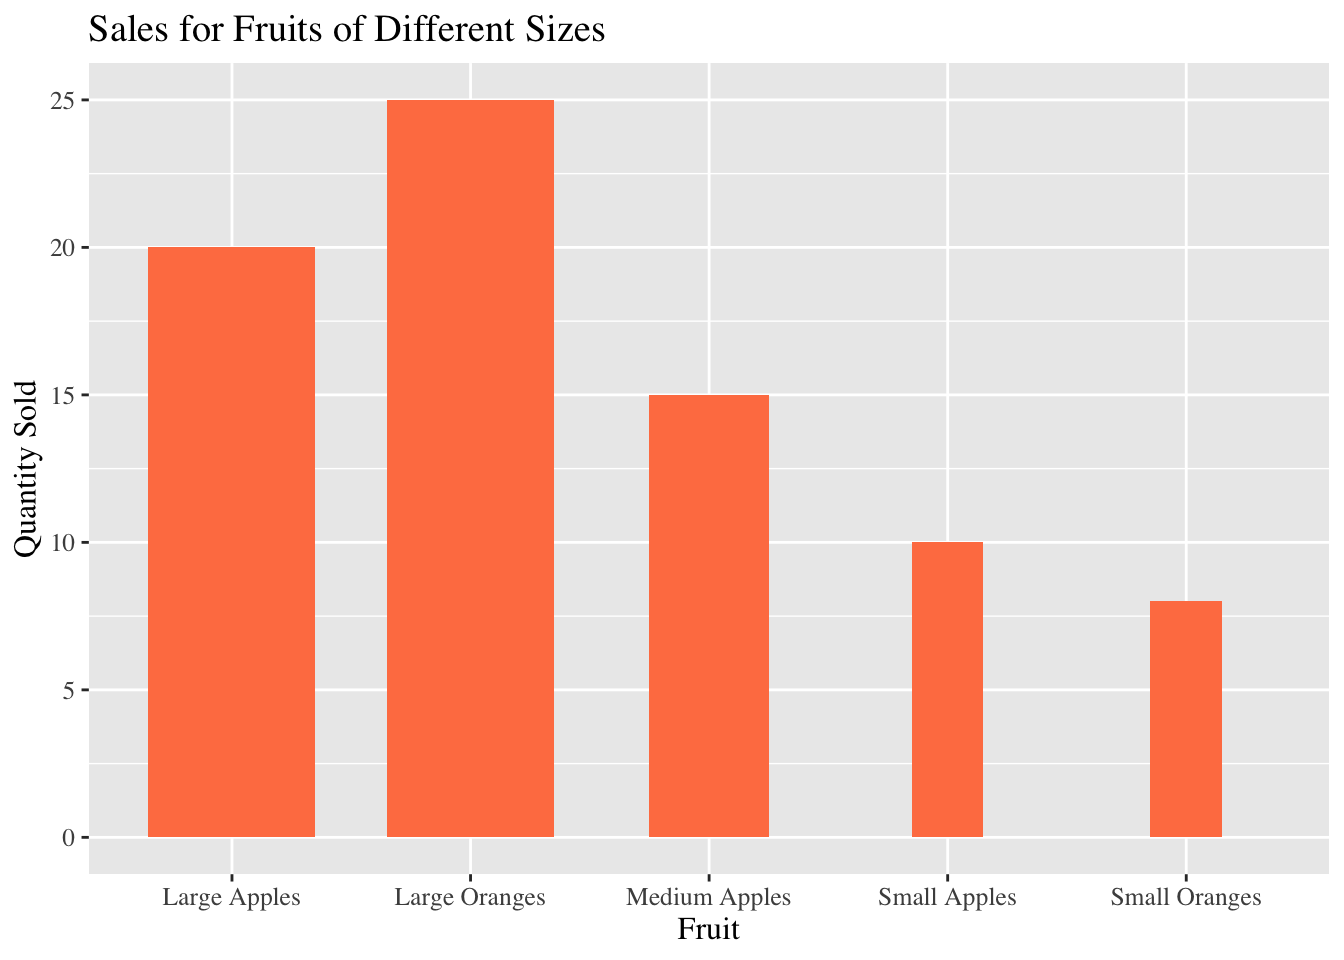
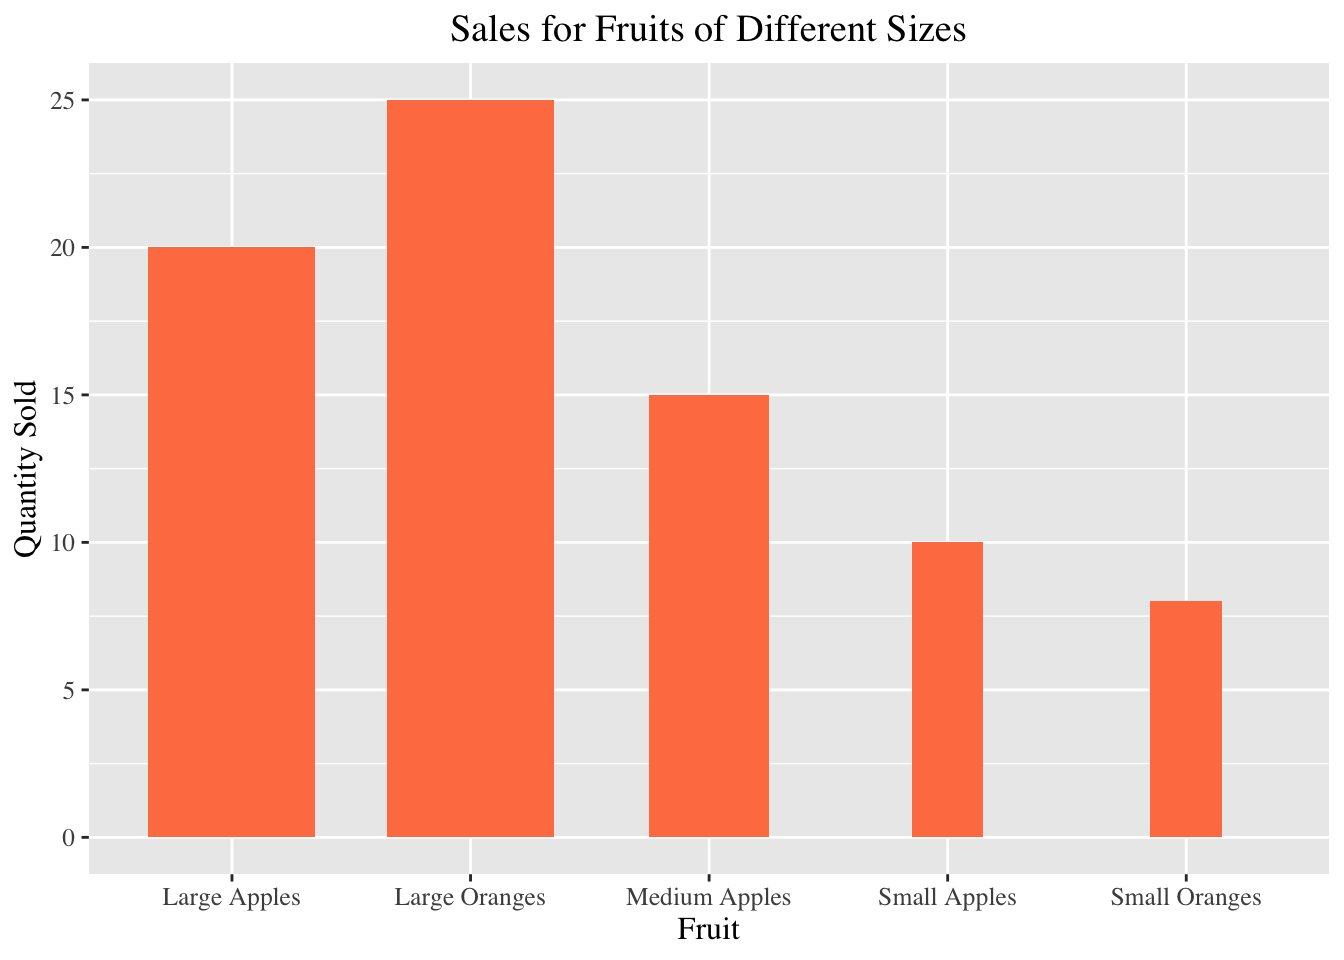
Add files via upload

Changed region(s): [[0.0625, 0.0, 0.7188, 0.0625]]

diff --git a/epps6356/posts/assign04/assignment4.html b/epps6356/posts/assign04/assignment4.html
@@ -228,7 +228,7 @@ pre > code.sourceCode > span > a:first-child::before { text-decoration: underlin
 <span id="cb1-9"><a href="#cb1-9" aria-hidden="true" tabindex="-1"></a>chart1 <span class="ot">&lt;-</span> <span class="fu">ggplot</span>(sales_data, <span class="fu">aes</span>(<span class="at">x =</span> Fruit, <span class="at">y =</span> Quantity, <span class="at">width =</span> Width)) <span class="sc">+</span></span>
 <span id="cb1-10"><a href="#cb1-10" aria-hidden="true" tabindex="-1"></a>  <span class="fu">geom_bar</span>(<span class="at">stat =</span> <span class="st">"identity"</span>, <span class="at">fill =</span> <span class="st">"coral"</span>) <span class="sc">+</span></span>
 <span id="cb1-11"><a href="#cb1-11" aria-hidden="true" tabindex="-1"></a>  <span class="fu">labs</span>(<span class="at">title =</span> <span class="st">"Sales for Fruits of Different Sizes"</span>, <span class="at">x =</span> <span class="st">"Fruit"</span>, <span class="at">y =</span> <span class="st">"Quantity Sold"</span>) <span class="sc">+</span></span>
-<span id="cb1-12"><a href="#cb1-12" aria-hidden="true" tabindex="-1"></a>  <span class="fu">theme</span>(<span class="at">text=</span><span class="fu">element_text</span>(<span class="at">size=</span><span class="dv">12</span>,  <span class="at">family=</span><span class="st">"serif"</span>))</span>
+<span id="cb1-12"><a href="#cb1-12" aria-hidden="true" tabindex="-1"></a>  <span class="fu">theme</span>(<span class="at">text=</span><span class="fu">element_text</span>(<span class="at">size=</span><span class="dv">12</span>,  <span class="at">family=</span><span class="st">"serif"</span>), <span class="at">plot.title =</span> <span class="fu">element_text</span>(<span class="at">hjust =</span> <span class="fl">0.5</span>))</span>
 <span id="cb1-13"><a href="#cb1-13" aria-hidden="true" tabindex="-1"></a>  </span>
 <span id="cb1-14"><a href="#cb1-14" aria-hidden="true" tabindex="-1"></a><span class="fu">print</span>(chart1)</span></code><button title="Copy to Clipboard" class="code-copy-button"><i class="bi"></i></button></pre></div>
 <div class="cell-output-display">
@@ -239,16 +239,29 @@ pre > code.sourceCode > span > a:first-child::before { text-decoration: underlin
 <section id="chart-2-table-with-embedded-charts" class="level2">
 <h2 class="anchored" data-anchor-id="chart-2-table-with-embedded-charts">Chart 2: Table with Embedded Charts</h2>
 <div class="cell">
-<div class="sourceCode cell-code" id="cb2"><pre class="sourceCode r code-with-copy"><code class="sourceCode r"><span id="cb2-1"><a href="#cb2-1" aria-hidden="true" tabindex="-1"></a>products <span class="ot">&lt;-</span> <span class="fu">c</span>(<span class="st">"Product A"</span>, <span class="st">"Product B"</span>, <span class="st">"Product C"</span>)</span>
-<span id="cb2-2"><a href="#cb2-2" aria-hidden="true" tabindex="-1"></a>revenue <span class="ot">&lt;-</span> <span class="fu">c</span>(<span class="dv">5000</span>, <span class="dv">8000</span>, <span class="dv">6500</span>)</span>
-<span id="cb2-3"><a href="#cb2-3" aria-hidden="true" tabindex="-1"></a>product_data <span class="ot">&lt;-</span> <span class="fu">data.frame</span>(<span class="at">Product =</span> products, <span class="at">Revenue =</span> revenue)</span>
-<span id="cb2-4"><a href="#cb2-4" aria-hidden="true" tabindex="-1"></a></span>
-<span id="cb2-5"><a href="#cb2-5" aria-hidden="true" tabindex="-1"></a>chart2 <span class="ot">&lt;-</span> <span class="fu">ggplot</span>(product_data, <span class="fu">aes</span>(<span class="at">x =</span> Product, <span class="at">y =</span> Revenue)) <span class="sc">+</span></span>
-<span id="cb2-6"><a href="#cb2-6" aria-hidden="true" tabindex="-1"></a>  <span class="fu">geom_col</span>(<span class="at">fill =</span> <span class="st">"green"</span>) <span class="sc">+</span></span>
-<span id="cb2-7"><a href="#cb2-7" aria-hidden="true" tabindex="-1"></a>  <span class="fu">labs</span>(<span class="at">title =</span> <span class="st">"Product Revenue"</span>, <span class="at">x =</span> <span class="st">"Product"</span>, <span class="at">y =</span> <span class="st">"Revenue (USD)"</span>) <span class="sc">+</span></span>
-<span id="cb2-8"><a href="#cb2-8" aria-hidden="true" tabindex="-1"></a>  <span class="fu">theme_minimal</span>()</span>
-<span id="cb2-9"><a href="#cb2-9" aria-hidden="true" tabindex="-1"></a></span>
-<span id="cb2-10"><a href="#cb2-10" aria-hidden="true" tabindex="-1"></a><span class="fu">print</span>(chart2)</span></code><button title="Copy to Clipboard" class="code-copy-button"><i class="bi"></i></button></pre></div>
+<div class="sourceCode cell-code" id="cb2"><pre class="sourceCode r code-with-copy"><code class="sourceCode r"><span id="cb2-1"><a href="#cb2-1" aria-hidden="true" tabindex="-1"></a><span class="fu">library</span>(gridExtra)</span>
+<span id="cb2-2"><a href="#cb2-2" aria-hidden="true" tabindex="-1"></a></span>
+<span id="cb2-3"><a href="#cb2-3" aria-hidden="true" tabindex="-1"></a>data1 <span class="ot">&lt;-</span> <span class="fu">data.frame</span>(</span>
+<span id="cb2-4"><a href="#cb2-4" aria-hidden="true" tabindex="-1"></a>  <span class="at">Product =</span> <span class="fu">c</span>(<span class="st">"A"</span>, <span class="st">"B"</span>, <span class="st">"C"</span>, <span class="st">"D"</span>),</span>
+<span id="cb2-5"><a href="#cb2-5" aria-hidden="true" tabindex="-1"></a>  <span class="at">Revenue =</span> <span class="fu">c</span>(<span class="dv">5000</span>, <span class="dv">7000</span>, <span class="dv">6500</span>, <span class="dv">3000</span>)</span>
+<span id="cb2-6"><a href="#cb2-6" aria-hidden="true" tabindex="-1"></a>)</span>
+<span id="cb2-7"><a href="#cb2-7" aria-hidden="true" tabindex="-1"></a></span>
+<span id="cb2-8"><a href="#cb2-8" aria-hidden="true" tabindex="-1"></a>data2 <span class="ot">&lt;-</span> <span class="fu">data.frame</span>(</span>
+<span id="cb2-9"><a href="#cb2-9" aria-hidden="true" tabindex="-1"></a>  <span class="at">Product =</span> <span class="fu">c</span>(<span class="st">"A"</span>, <span class="st">"B"</span>, <span class="st">"C"</span>, <span class="st">"D"</span>),</span>
+<span id="cb2-10"><a href="#cb2-10" aria-hidden="true" tabindex="-1"></a>  <span class="at">Revenue =</span> <span class="fu">c</span>(<span class="dv">2000</span>, <span class="dv">5000</span>, <span class="dv">6000</span>, <span class="dv">1000</span>)</span>
+<span id="cb2-11"><a href="#cb2-11" aria-hidden="true" tabindex="-1"></a>)</span>
+<span id="cb2-12"><a href="#cb2-12" aria-hidden="true" tabindex="-1"></a></span>
+<span id="cb2-13"><a href="#cb2-13" aria-hidden="true" tabindex="-1"></a>store1 <span class="ot">&lt;-</span> <span class="fu">ggplot</span>(data1, <span class="fu">aes</span>(<span class="at">x =</span> Product, <span class="at">y =</span> Revenue)) <span class="sc">+</span></span>
+<span id="cb2-14"><a href="#cb2-14" aria-hidden="true" tabindex="-1"></a>  <span class="fu">geom_bar</span>(<span class="at">stat =</span> <span class="st">"identity"</span>, <span class="at">fill =</span> <span class="st">"midnightblue"</span>, <span class="at">alpha =</span> <span class="fl">0.7</span>) <span class="sc">+</span></span>
+<span id="cb2-15"><a href="#cb2-15" aria-hidden="true" tabindex="-1"></a>  <span class="fu">labs</span>(<span class="at">title =</span> <span class="st">"Store 1: Product Revenue"</span>, <span class="at">x =</span> <span class="st">"Product Type"</span>, <span class="at">y =</span> <span class="st">"Revenue (USD)"</span>) <span class="sc">+</span></span>
+<span id="cb2-16"><a href="#cb2-16" aria-hidden="true" tabindex="-1"></a>  <span class="fu">theme</span>(<span class="at">text=</span><span class="fu">element_text</span>(<span class="at">size=</span><span class="dv">12</span>, <span class="at">family=</span><span class="st">"serif"</span>), <span class="at">plot.title =</span> <span class="fu">element_text</span>(<span class="at">hjust =</span> <span class="fl">0.5</span>))</span>
+<span id="cb2-17"><a href="#cb2-17" aria-hidden="true" tabindex="-1"></a></span>
+<span id="cb2-18"><a href="#cb2-18" aria-hidden="true" tabindex="-1"></a>store2 <span class="ot">&lt;-</span> <span class="fu">ggplot</span>(data2, <span class="fu">aes</span>(<span class="at">x =</span> Product, <span class="at">y =</span> Revenue)) <span class="sc">+</span></span>
+<span id="cb2-19"><a href="#cb2-19" aria-hidden="true" tabindex="-1"></a>  <span class="fu">geom_bar</span>(<span class="at">stat =</span> <span class="st">"identity"</span>, <span class="at">fill =</span> <span class="st">"seagreen4"</span>, <span class="at">alpha =</span> <span class="fl">0.7</span>) <span class="sc">+</span></span>
+<span id="cb2-20"><a href="#cb2-20" aria-hidden="true" tabindex="-1"></a>  <span class="fu">labs</span>(<span class="at">title =</span> <span class="st">"Store 2: Product Revenue"</span>, <span class="at">x =</span> <span class="st">"Product Type"</span>, <span class="at">y =</span> <span class="st">"Revenue (USD)"</span>) <span class="sc">+</span></span>
+<span id="cb2-21"><a href="#cb2-21" aria-hidden="true" tabindex="-1"></a>  <span class="fu">theme</span>(<span class="at">text=</span><span class="fu">element_text</span>(<span class="at">size=</span><span class="dv">12</span>, <span class="at">family=</span><span class="st">"serif"</span>), <span class="at">plot.title =</span> <span class="fu">element_text</span>(<span class="at">hjust =</span> <span class="fl">0.5</span>))</span>
+<span id="cb2-22"><a href="#cb2-22" aria-hidden="true" tabindex="-1"></a></span>
+<span id="cb2-23"><a href="#cb2-23" aria-hidden="true" tabindex="-1"></a>combined_chart <span class="ot">&lt;-</span> <span class="fu">grid.arrange</span>(store1, store2, <span class="at">ncol =</span> <span class="dv">2</span>)</span></code><button title="Copy to Clipboard" class="code-copy-button"><i class="bi"></i></button></pre></div>
 <div class="cell-output-display">
 <p><img src="assignment4_files/figure-html/unnamed-chunk-2-1.png" class="img-fluid" width="672"></p>
 </div>
@@ -265,7 +278,7 @@ pre > code.sourceCode > span > a:first-child::before { text-decoration: underlin
 <span id="cb3-6"><a href="#cb3-6" aria-hidden="true" tabindex="-1"></a>chart3 <span class="ot">&lt;-</span> <span class="fu">ggplot</span>(sales_data, <span class="fu">aes</span>(<span class="at">x =</span> Quantity, <span class="at">y =</span> Fruit)) <span class="sc">+</span></span>
 <span id="cb3-7"><a href="#cb3-7" aria-hidden="true" tabindex="-1"></a>  <span class="fu">geom_bar</span>(<span class="at">stat =</span> <span class="st">"identity"</span>, <span class="at">fill =</span> <span class="st">"darkslategray4"</span>) <span class="sc">+</span></span>
 <span id="cb3-8"><a href="#cb3-8" aria-hidden="true" tabindex="-1"></a>  <span class="fu">labs</span>(<span class="at">title =</span> <span class="st">"Sales for Different Fruits"</span>, <span class="at">x =</span> <span class="st">"Quantity Sold"</span>, <span class="at">y =</span> <span class="st">"Type of Fruit"</span>) <span class="sc">+</span> </span>
-<span id="cb3-9"><a href="#cb3-9" aria-hidden="true" tabindex="-1"></a>  <span class="fu">theme</span>(<span class="at">text=</span><span class="fu">element_text</span>(<span class="at">size=</span><span class="dv">12</span>, <span class="at">family=</span><span class="st">"serif"</span>))</span>
+<span id="cb3-9"><a href="#cb3-9" aria-hidden="true" tabindex="-1"></a>  <span class="fu">theme</span>(<span class="at">text=</span><span class="fu">element_text</span>(<span class="at">size=</span><span class="dv">12</span>, <span class="at">family=</span><span class="st">"serif"</span>), <span class="at">plot.title =</span> <span class="fu">element_text</span>(<span class="at">hjust =</span> <span class="fl">0.5</span>))</span>
 <span id="cb3-10"><a href="#cb3-10" aria-hidden="true" tabindex="-1"></a></span>
 <span id="cb3-11"><a href="#cb3-11" aria-hidden="true" tabindex="-1"></a><span class="fu">print</span>(chart3)</span></code><button title="Copy to Clipboard" class="code-copy-button"><i class="bi"></i></button></pre></div>
 <div class="cell-output-display">

diff --git a/epps6356/posts/assign03/assignment3.html b/epps6356/posts/assign03/assignment3.html
@@ -522,7 +522,7 @@ x4          0.4999091  0.1178189 4.243028 0.002164602</code></pre>
 <span id="cb30-24"><a href="#cb30-24" aria-hidden="true" tabindex="-1"></a></span>
 <span id="cb30-25"><a href="#cb30-25" aria-hidden="true" tabindex="-1"></a>variable</span></code><button title="Copy to Clipboard" class="code-copy-button"><i class="bi"></i></button></pre></div>
 <div class="cell-output cell-output-stderr">
-<pre><code>Warning: Removed 4 rows containing missing values (`geom_point()`).</code></pre>
+<pre><code>Warning: Removed 10 rows containing missing values (`geom_point()`).</code></pre>
 </div>
 <div class="cell-output-display">
 <p><img src="assignment3_files/figure-html/unnamed-chunk-3-1.png" class="img-fluid" width="672"></p>
